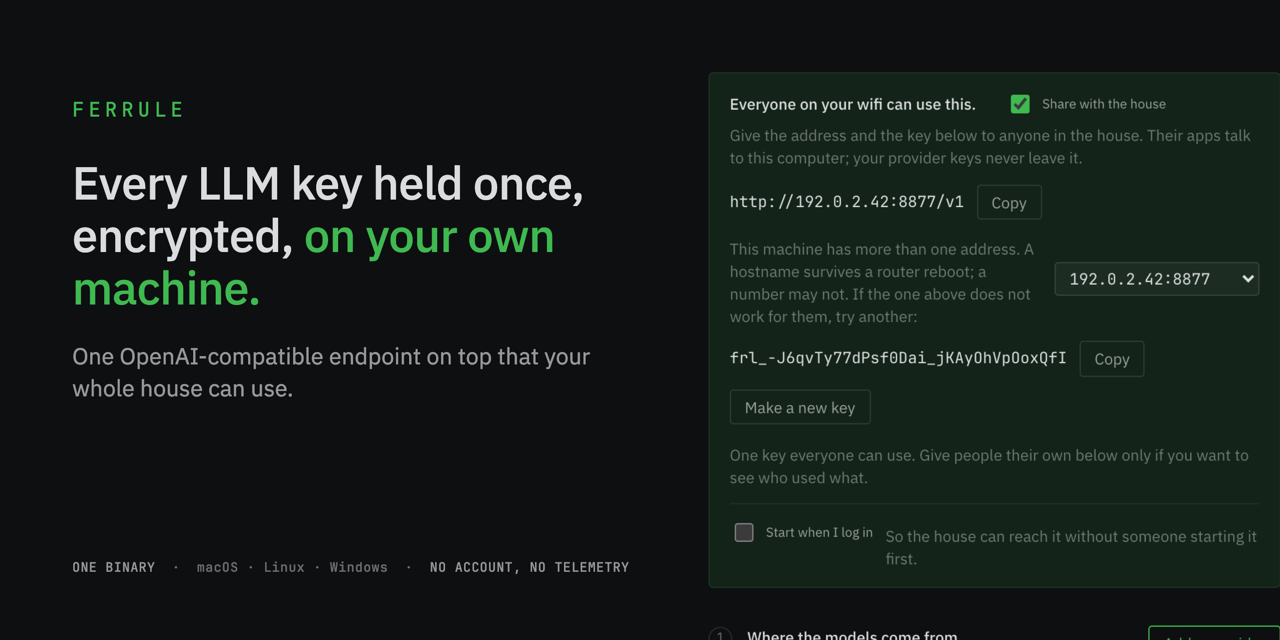
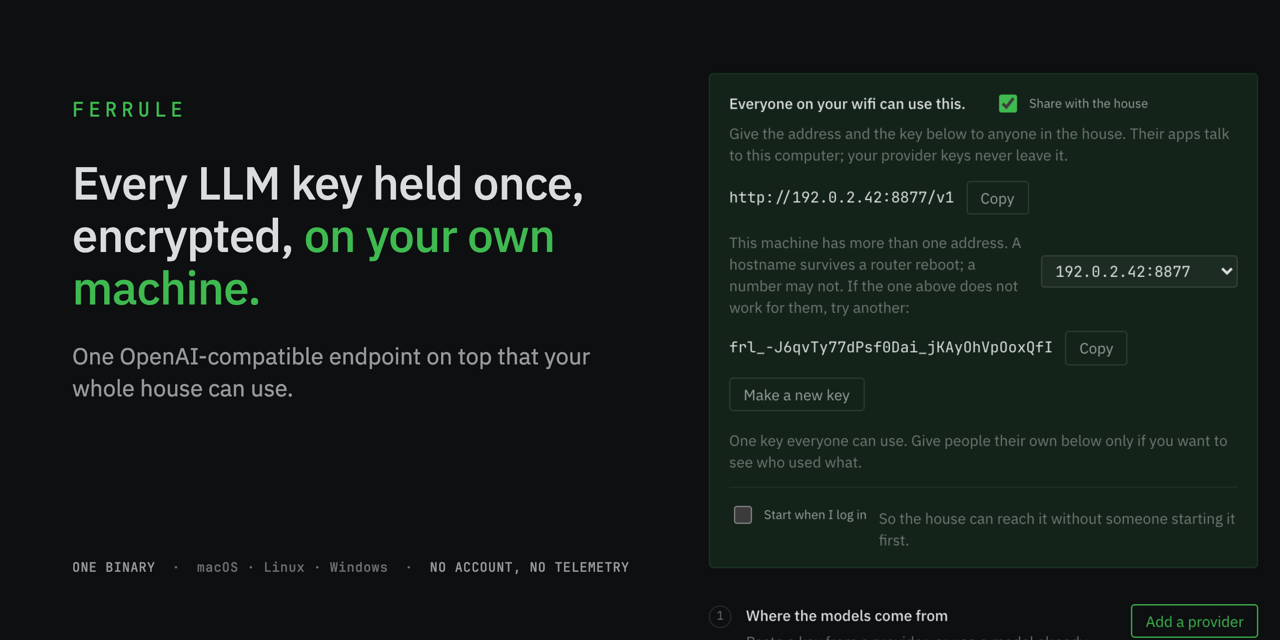
Social card: the household card whole, with a margin

diff --git a/packaging/social/social.html b/packaging/social/social.html
@@ -19,12 +19,12 @@
   .facts { position: absolute; left: 72px; bottom: 64px; font-family: "Ferrule Mono", monospace;
            font-weight: 500; font-size: 13px; letter-spacing: 0.04em; color: rgba(236,238,240,0.42); }
   .facts b { color: rgba(236,238,240,0.62); font-weight: 500; }
-  /* The household card, lifted whole from the hero at 1.25x (in the hero's CSS pixels it sits
+  /* The household card, lifted whole from the hero at 1.2x (in the hero's CSS pixels it sits
      at 154,64 and is 458×414). The section under it runs off the bottom on purpose: the card
      is the glimpse, the sentence is the message. */
   .shot { position: absolute; left: 700px; top: 64px; width: 580px; height: 576px; overflow: hidden; }
-  .shot img { position: absolute; width: 1000px; transform-origin: 0 0; transform: scale(1.25);
-              left: -184px; top: -72px; }
+  .shot img { position: absolute; width: 1000px; transform-origin: 0 0; transform: scale(1.2);
+              left: -176px; top: -68px; }
 </style></head>
 <body>
   <div class="copy">
